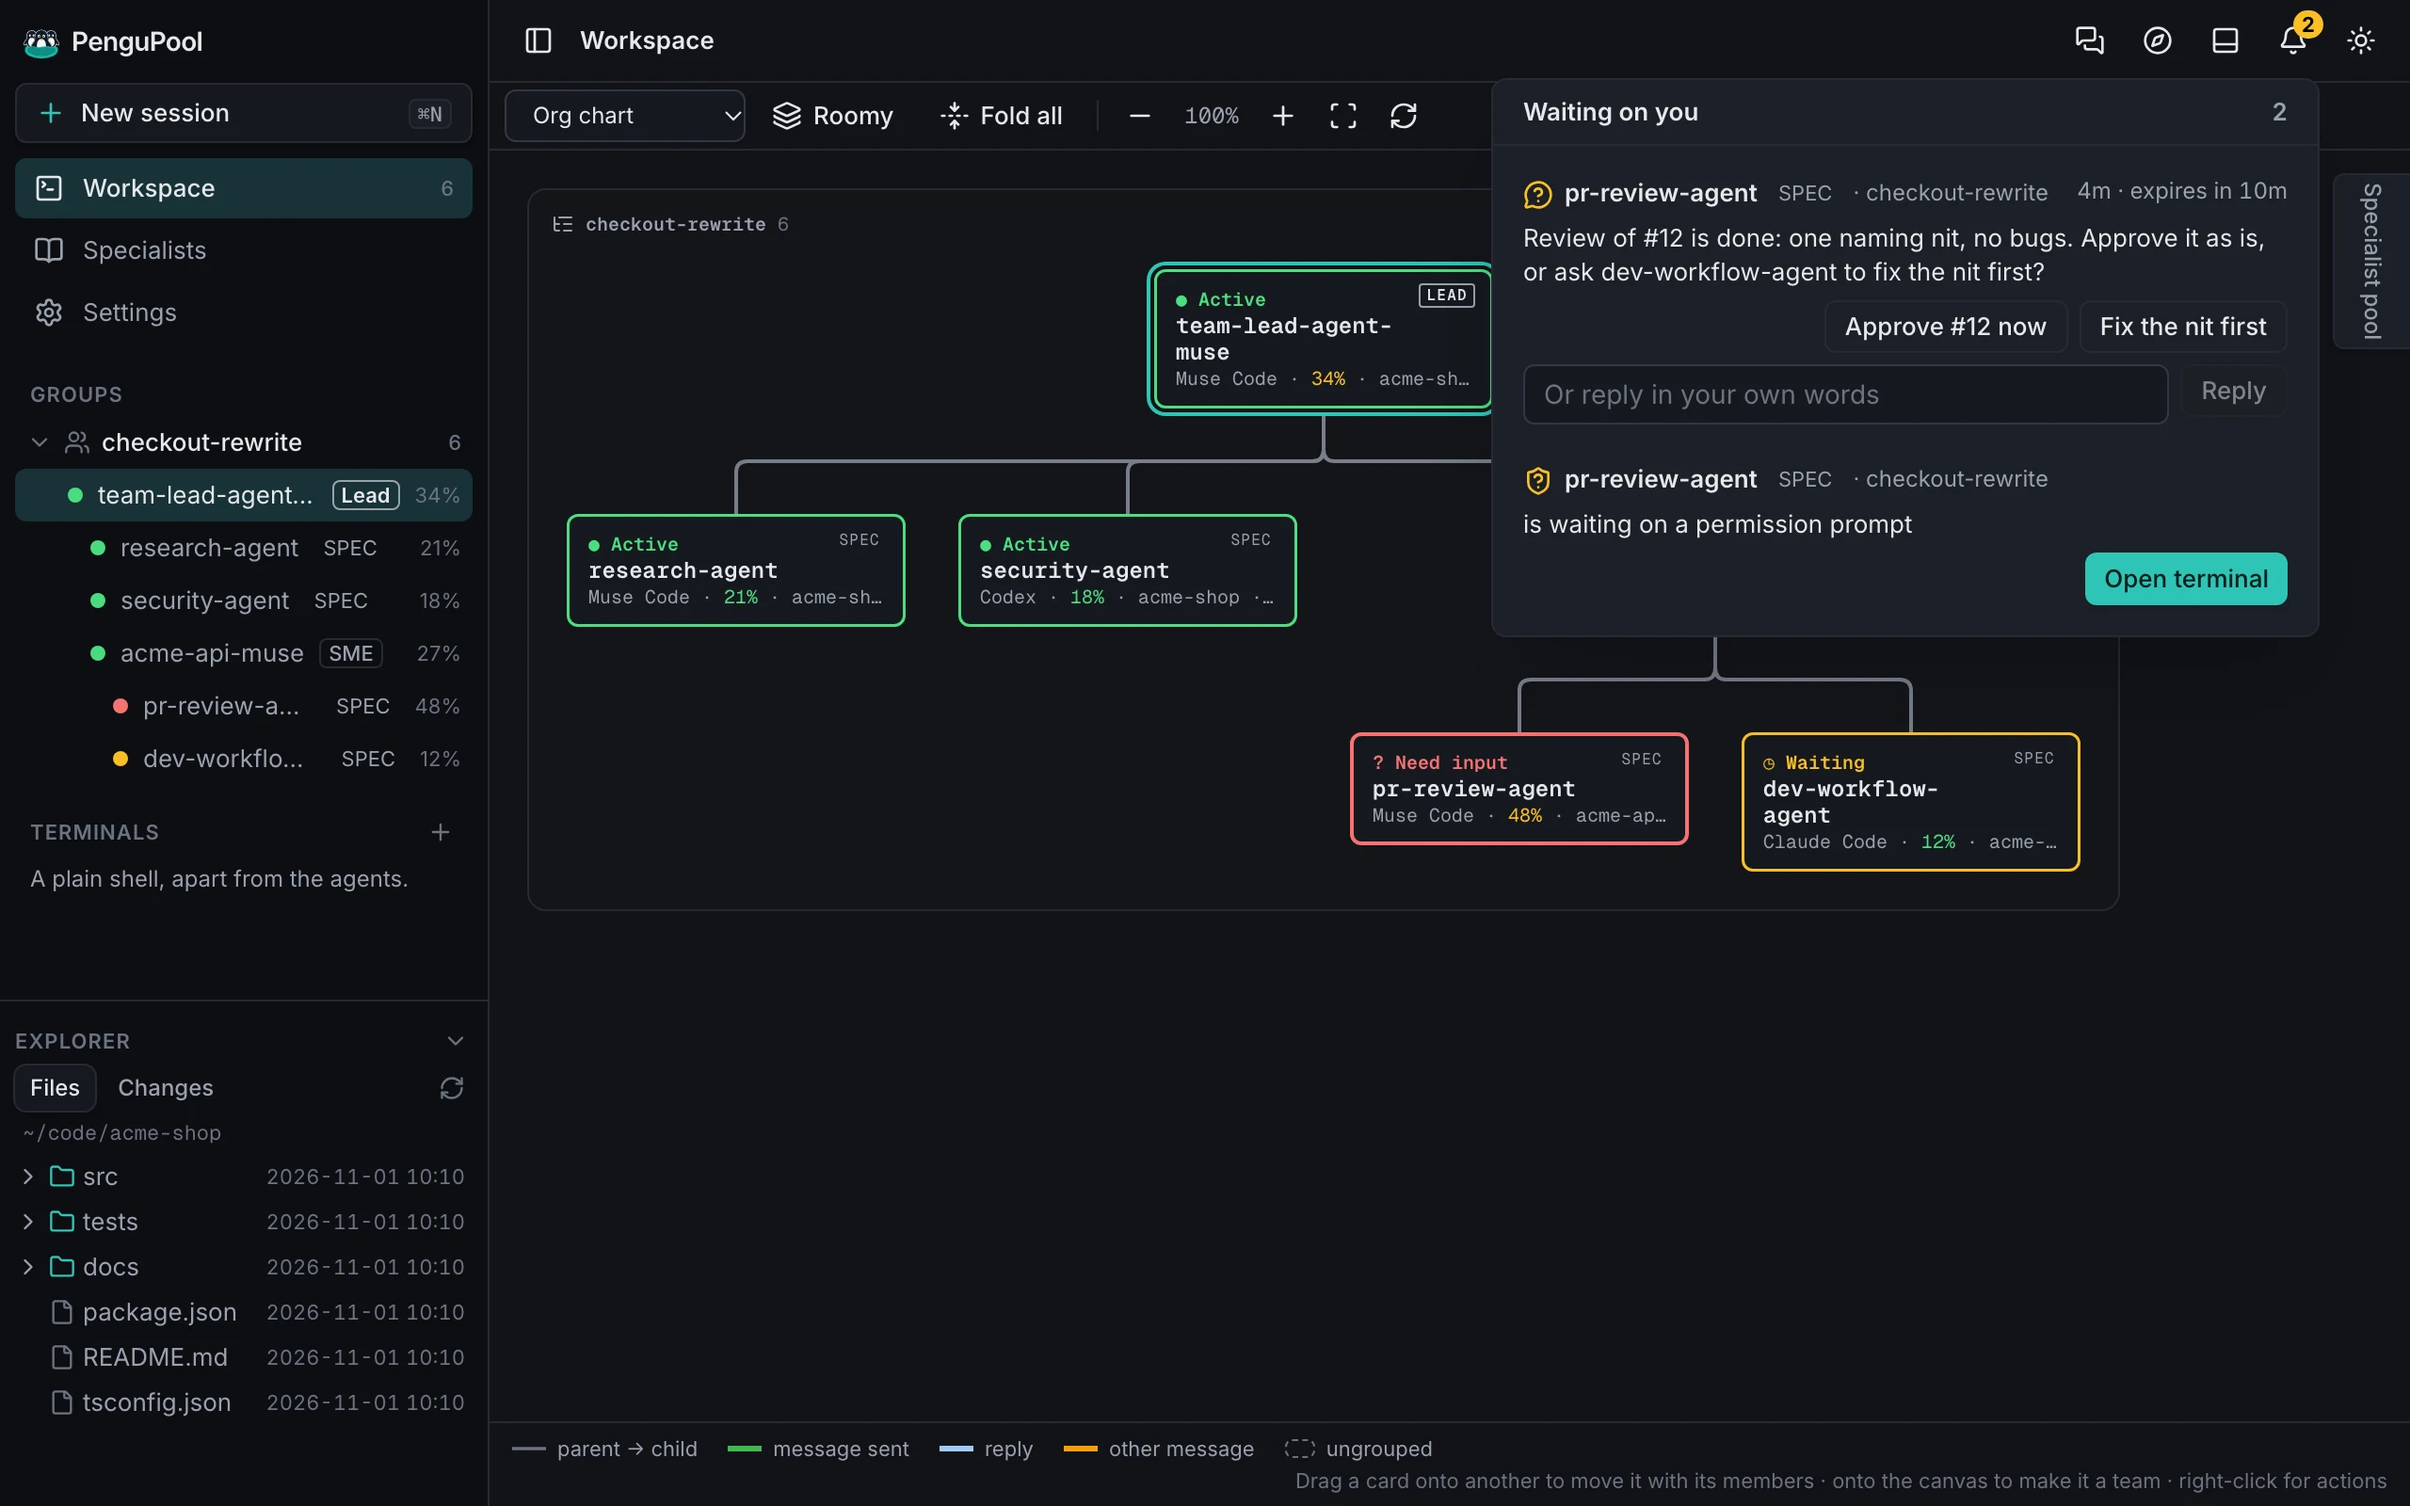
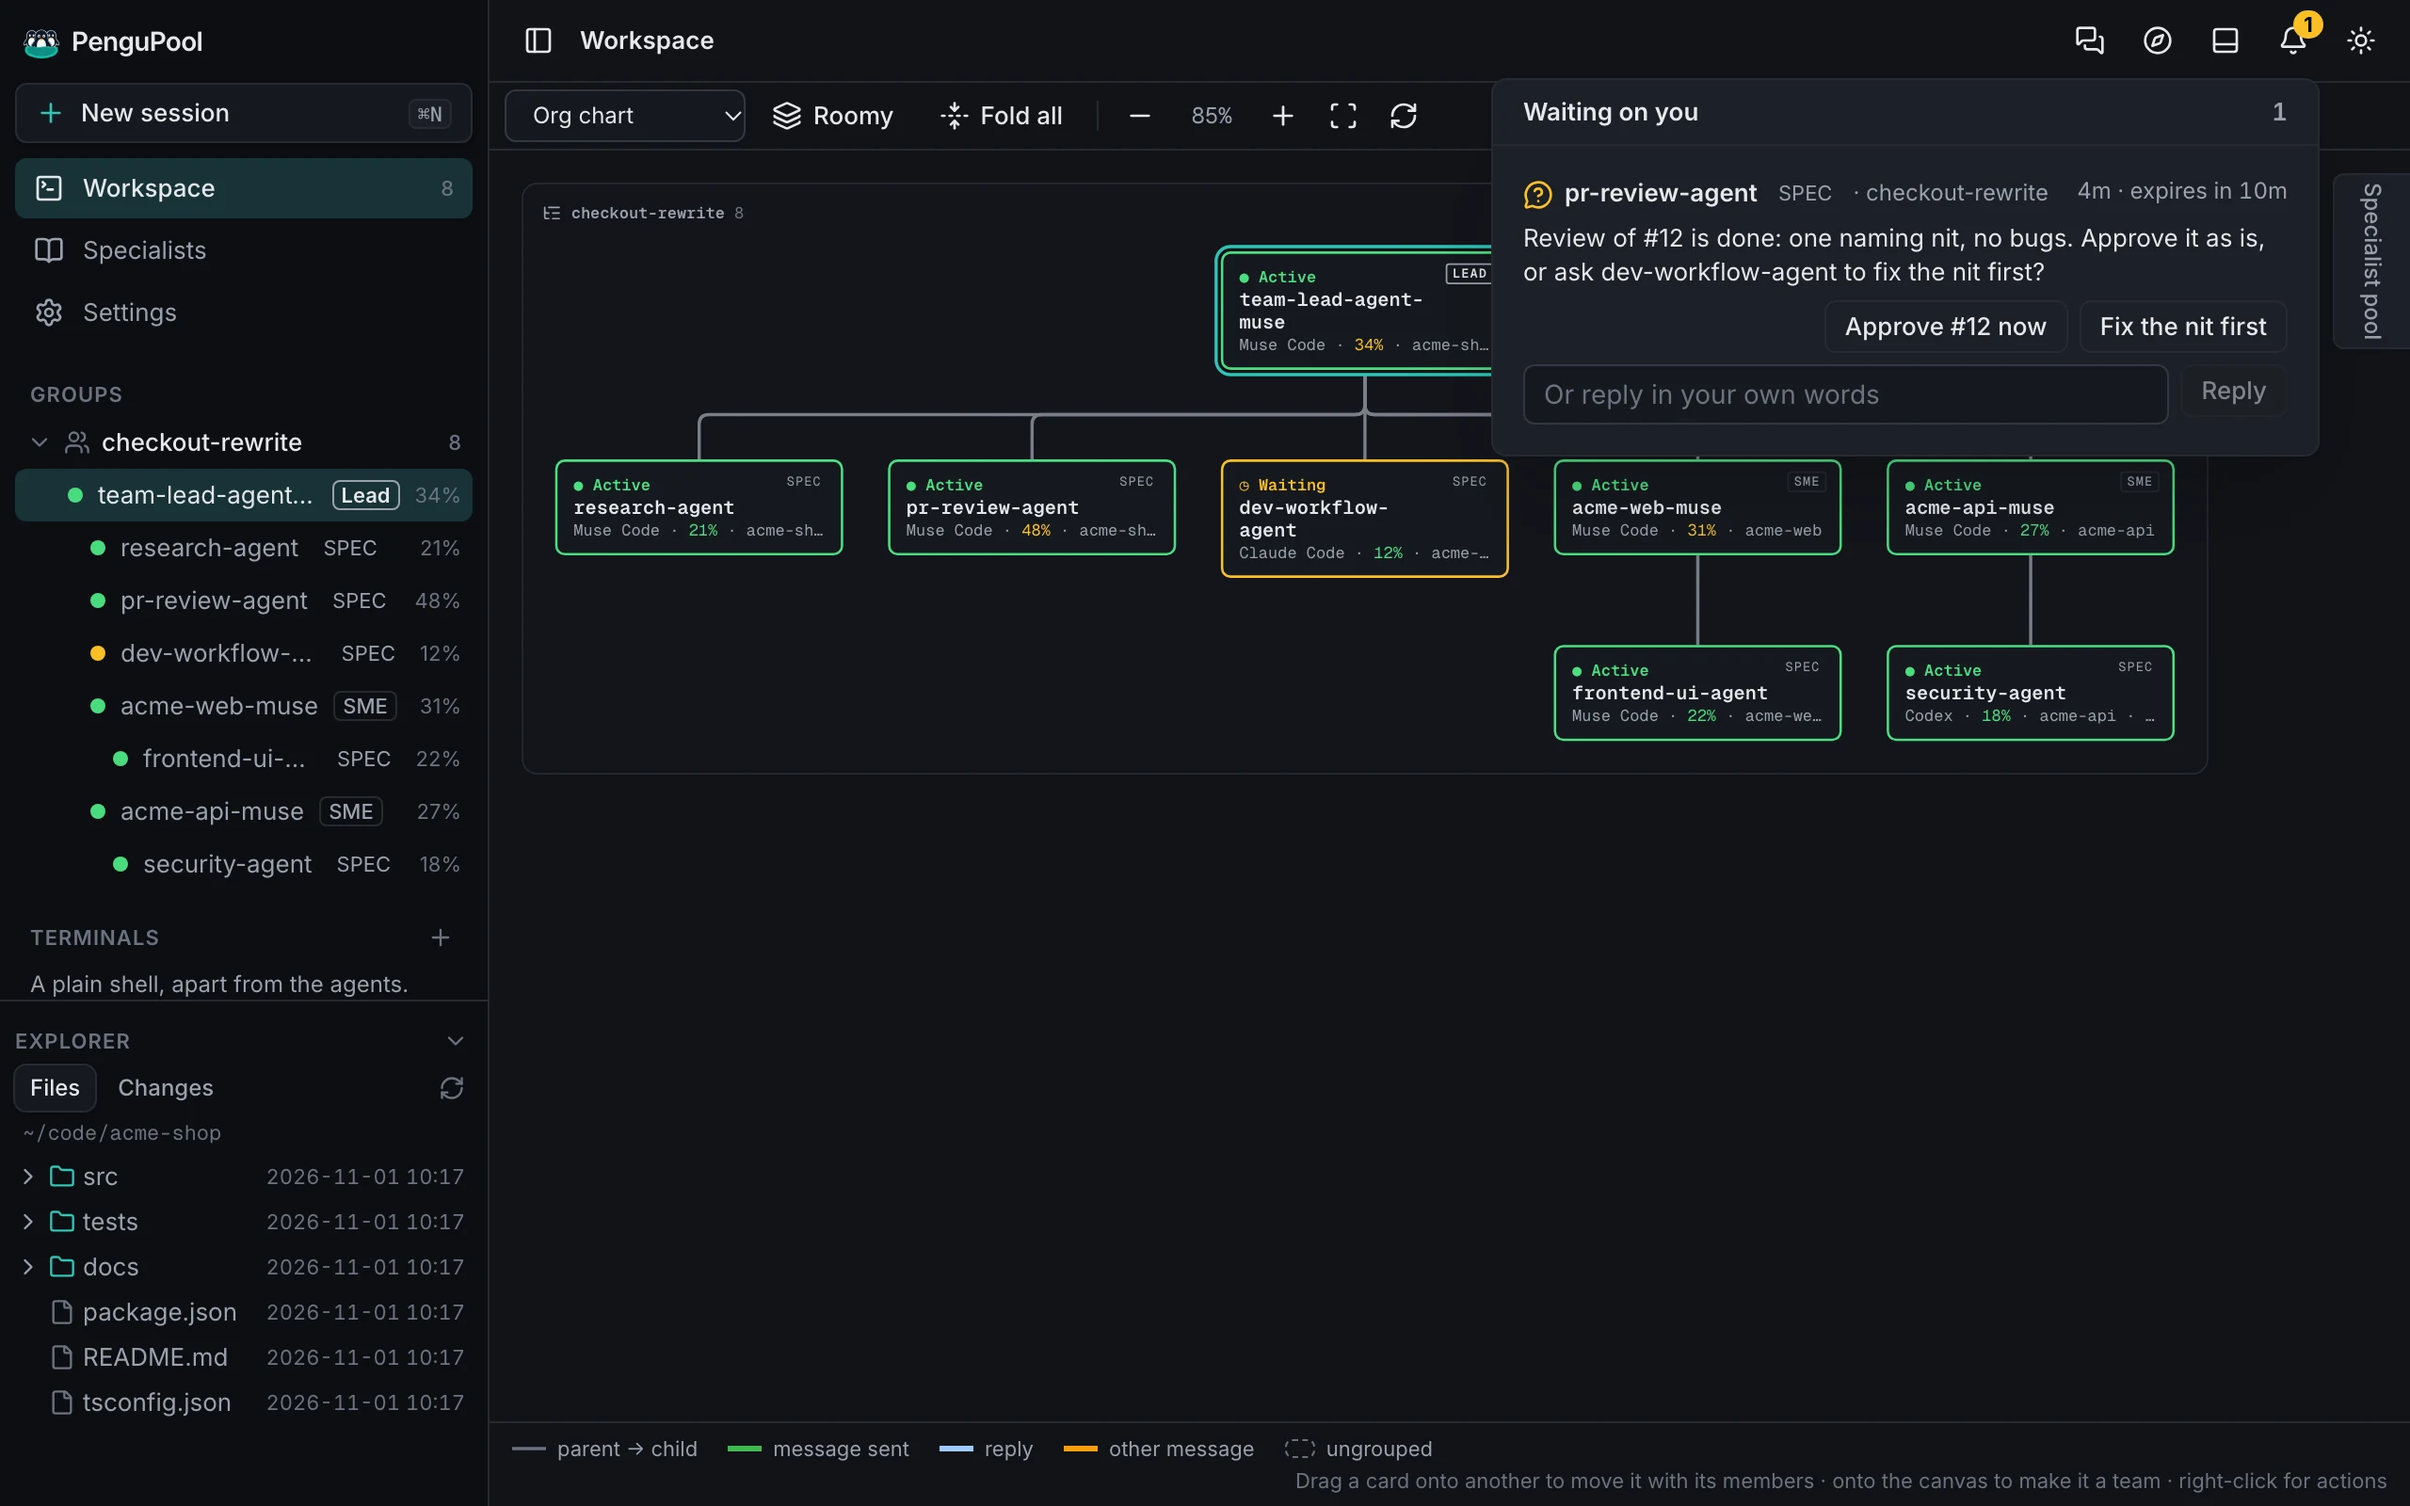
README: two-SME team map still (revision 3)
Each SME leads the specialist that fits its work (security-agent for the API, frontend-ui-agent for
the web app); pr-review-agent is shared under the lead. Alt text matches.

diff --git a/README.md b/README.md
@@ -58,7 +58,7 @@ Claude Code, Codex, pi and OMP join the same workspace, teams and Compass as Mus
 
 <picture>
   <source media="(prefers-color-scheme: dark)" srcset="assets/screenshots/screen-map-dark.webp">
-  <img alt="The team map, three levels: team-lead-agent (LEAD, Muse Code) leads research-agent (Muse Code), security-agent (Codex) and acme-api-muse (SME, Muse Code), which in turn leads pr-review-agent (Muse Code) and dev-workflow-agent (Claude Code). Lit routes and an open ask from research-agent." src="assets/screenshots/screen-map-light.webp">
+  <img alt="The team map, three levels. team-lead-agent (LEAD, Muse Code) leads research-agent (Muse Code), pr-review-agent (Muse Code, shared by the team), dev-workflow-agent (Claude Code) and two repository SMEs. acme-api-muse (Muse Code) leads security-agent (Codex); acme-web-muse (Muse Code) leads frontend-ui-agent (Muse Code). Lit routes and an open ask from research-agent." src="assets/screenshots/screen-map-light.webp">
 </picture>
 
 <sub>Illustrative UI with synthetic project data.</sub>
